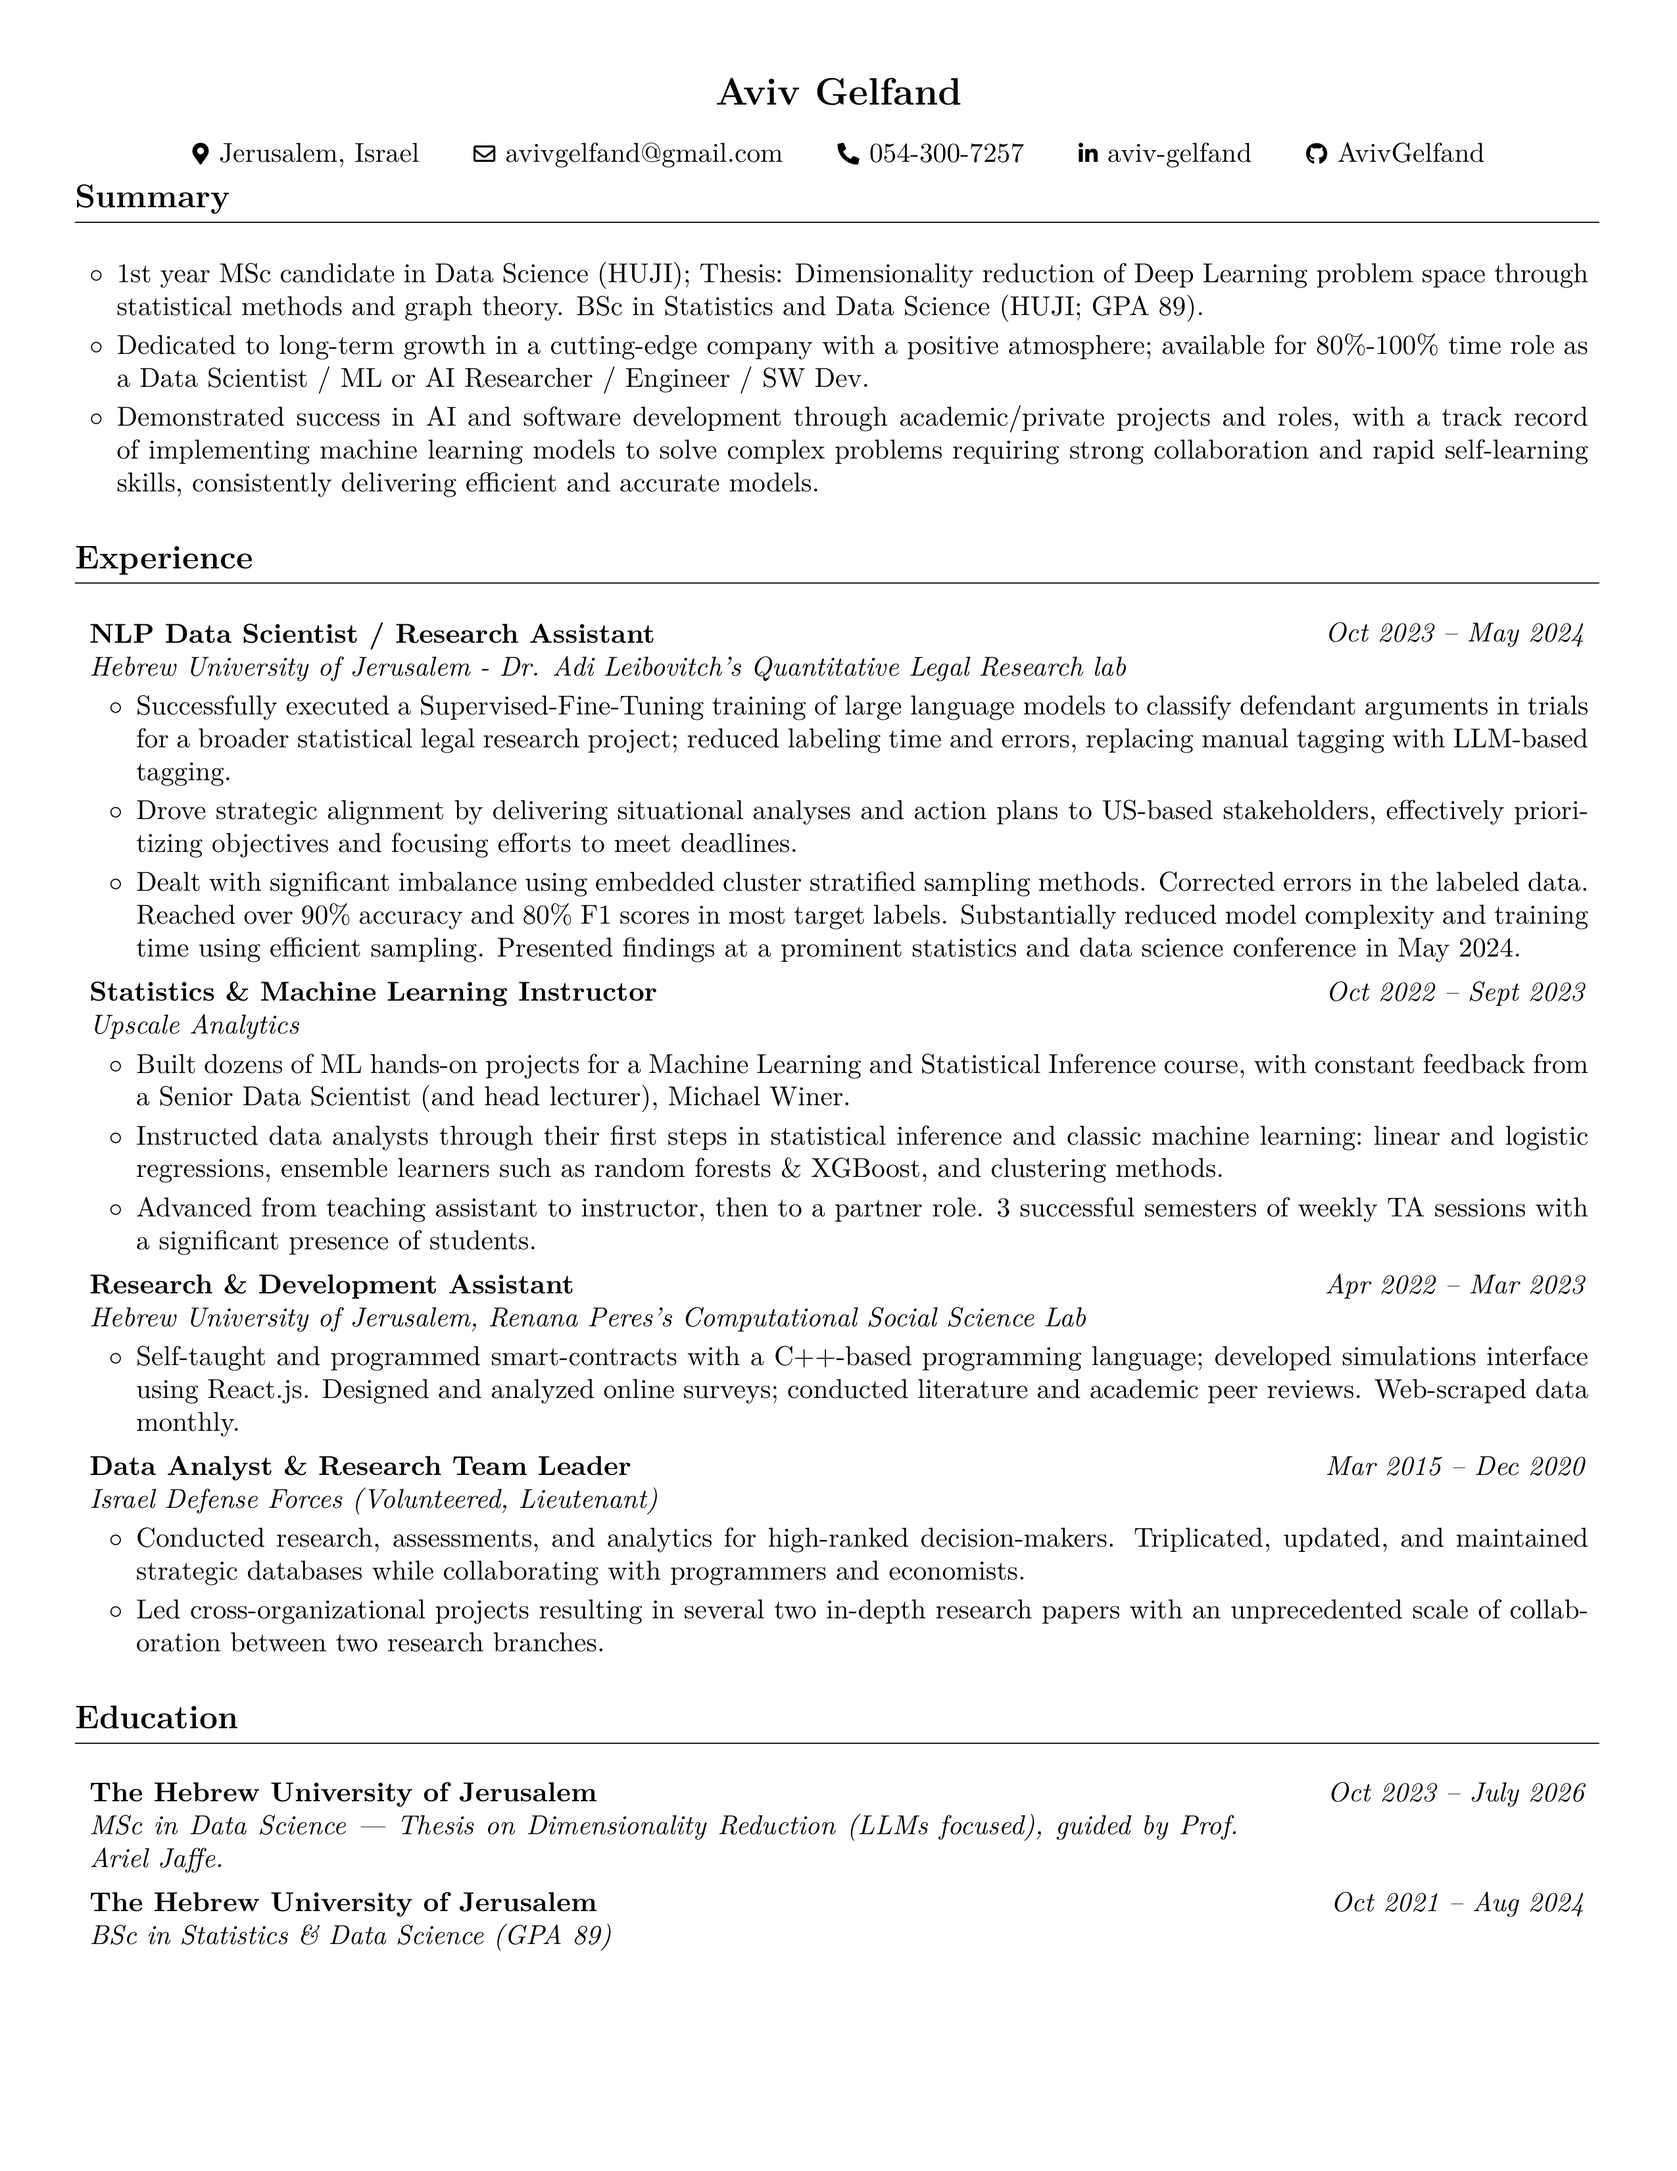
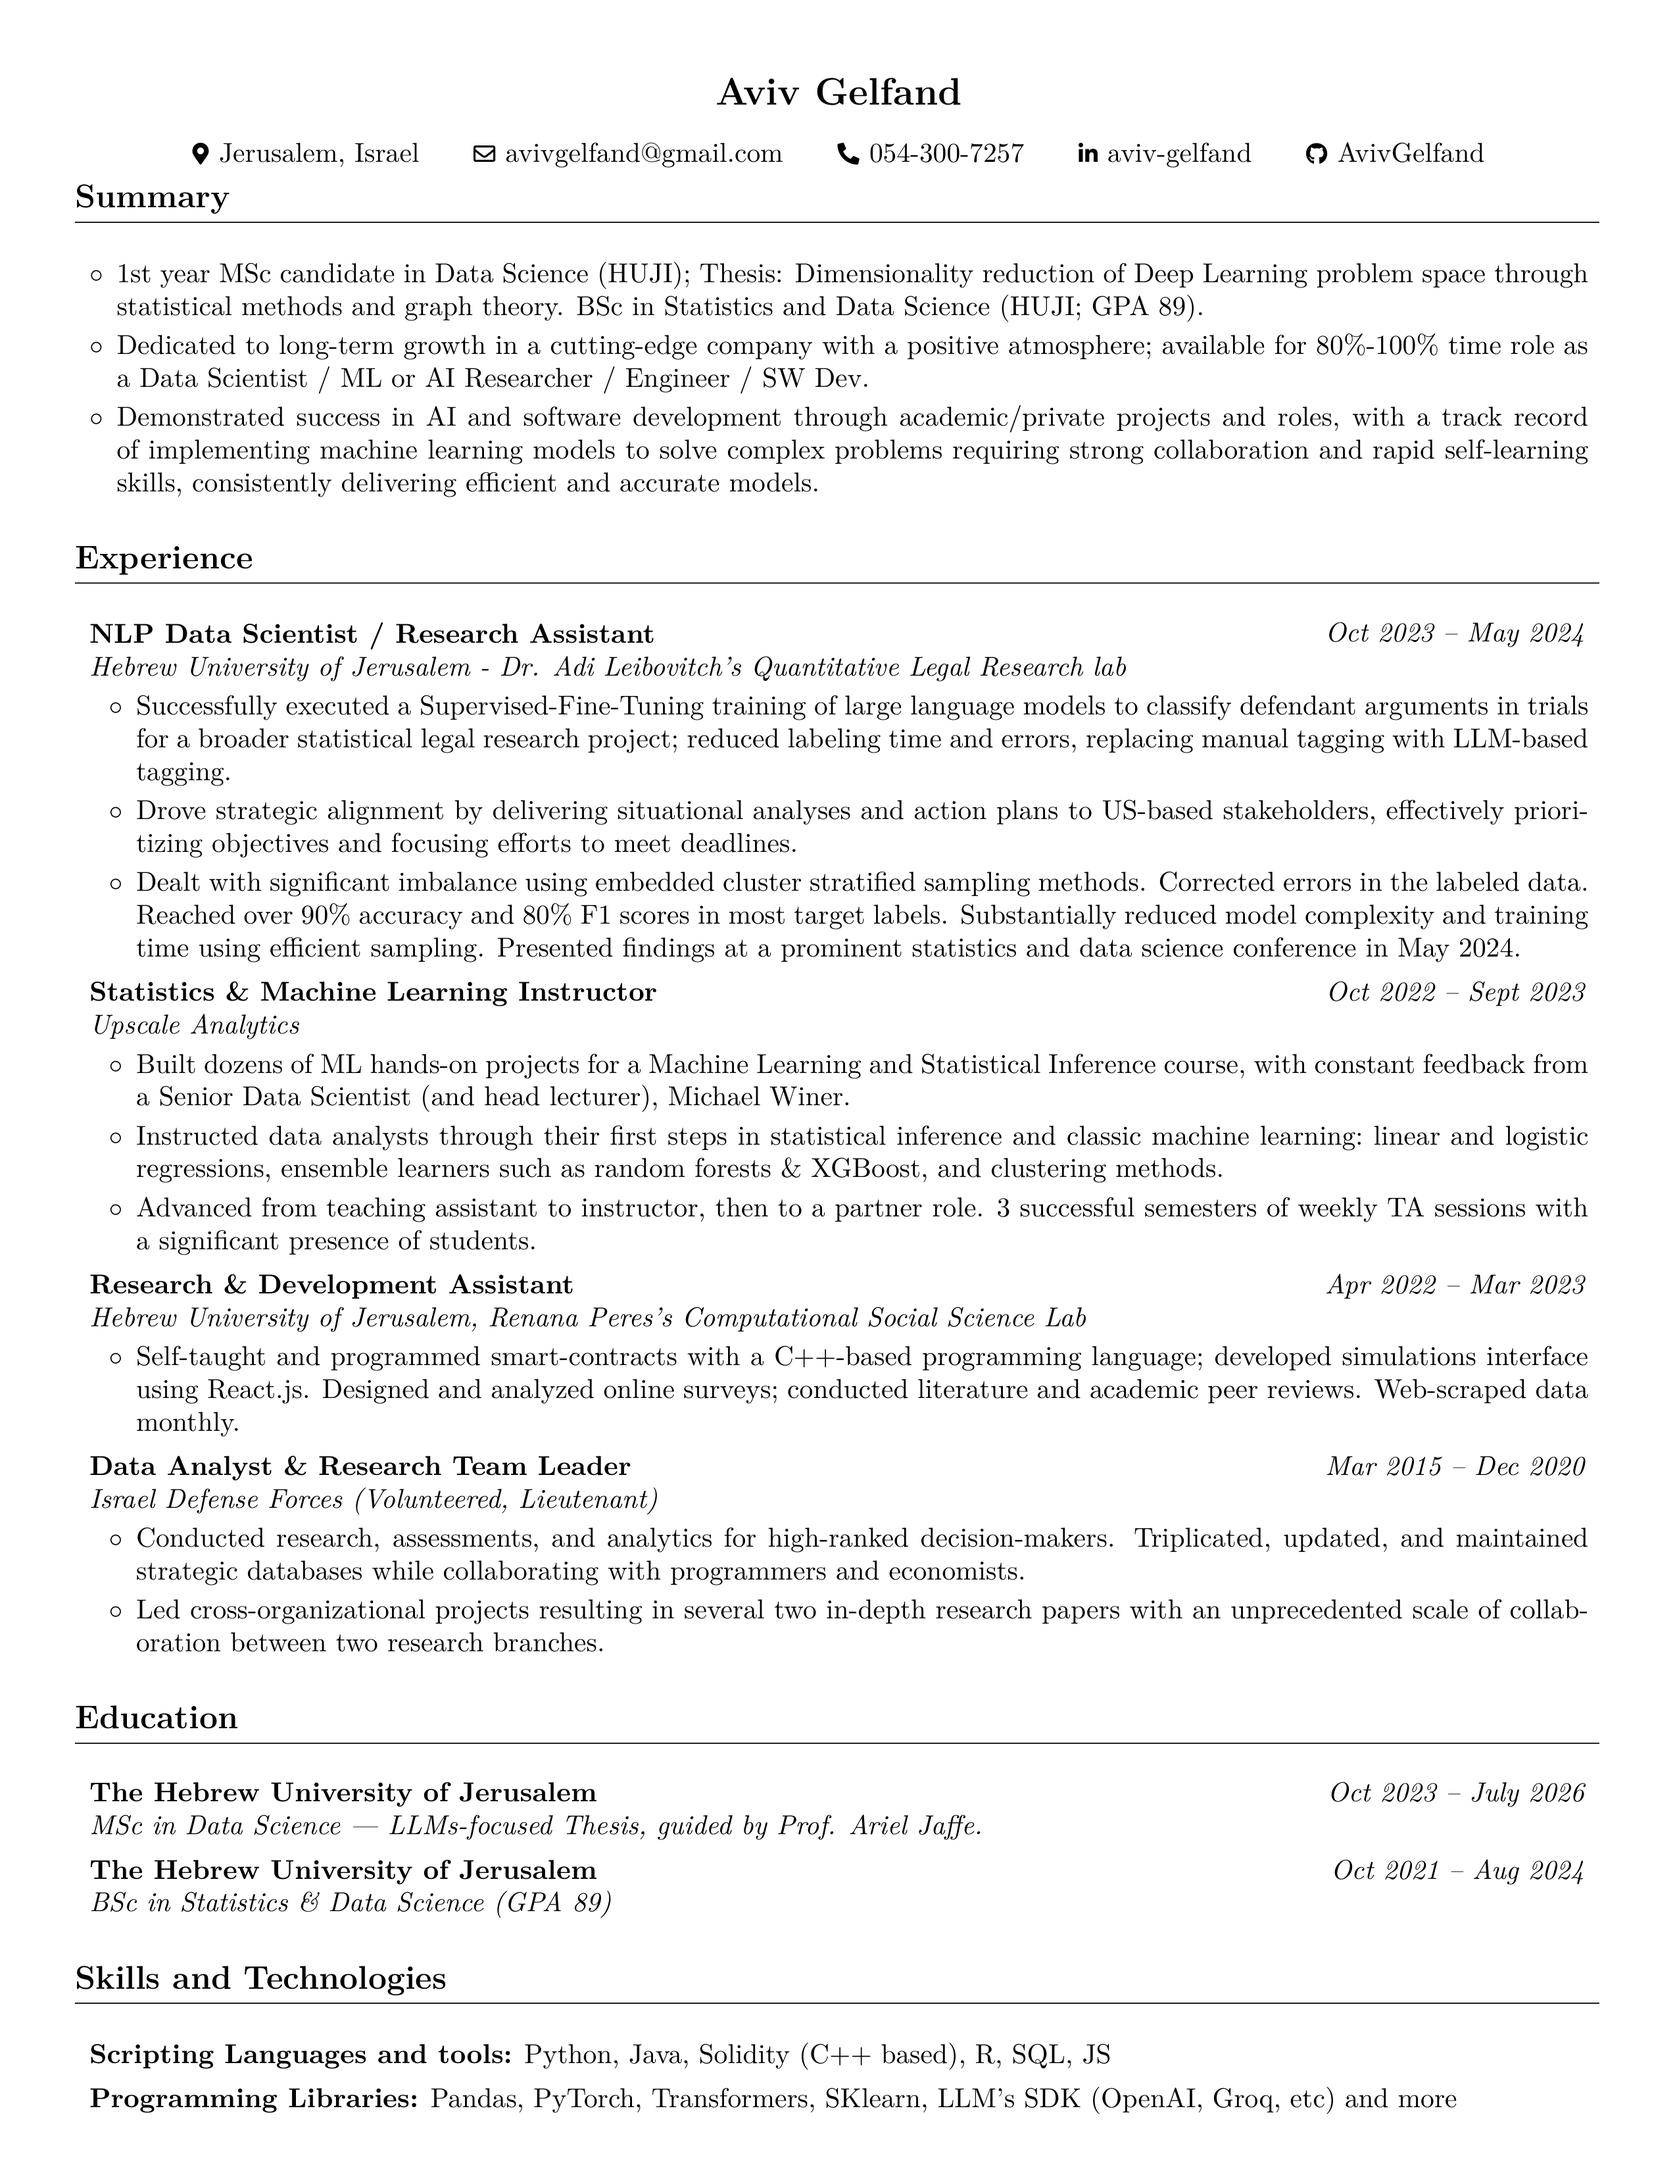
Render the latest CV

Changed region(s): [[0.062, 0.8427, 0.4647, 0.9676], [0.5267, 0.9364, 0.6506, 0.9676]]

diff --git a/Aviv_Gelfand_CV.html b/Aviv_Gelfand_CV.html
@@ -73,7 +73,7 @@
         <li>Led cross-organizational projects resulting in several two in-depth research papers with an unprecedented scale of collaboration between two research branches.</li>
         </ul>
         <h1>Education</h1>
-        <h2>The Hebrew University of Jerusalem, MSc in Data Science | Thesis on Dimensionality Reduction (LLMs focused), guided by Prof. Ariel Jaffe.</h2>
+        <h2>The Hebrew University of Jerusalem, MSc in Data Science | LLMs-focused Thesis, guided by Prof. Ariel Jaffe.</h2>
         <ul>
         <li>Oct 2023 – July 2026</li>
         </ul>

diff --git a/Aviv_Gelfand_CV.tex b/Aviv_Gelfand_CV.tex
@@ -288,7 +288,7 @@
         \textit{Oct 2023 – July 2026}}
             \textbf{The Hebrew University of Jerusalem}
 
-            \textit{MSc in Data Science | Thesis on Dimensionality Reduction (LLMs focused), guided by Prof. Ariel Jaffe.}
+            \textit{MSc in Data Science | LLMs-focused Thesis, guided by Prof. Ariel Jaffe.}
         \end{twocolentry}
 
 

diff --git a/README.md b/README.md
@@ -43,7 +43,7 @@
 
 # Education
 
-## The Hebrew University of Jerusalem, MSc in Data Science | Thesis on Dimensionality Reduction (LLMs focused), guided by Prof. Ariel Jaffe.
+## The Hebrew University of Jerusalem, MSc in Data Science | LLMs-focused Thesis, guided by Prof. Ariel Jaffe.
 
 - Oct 2023 – July 2026
 
